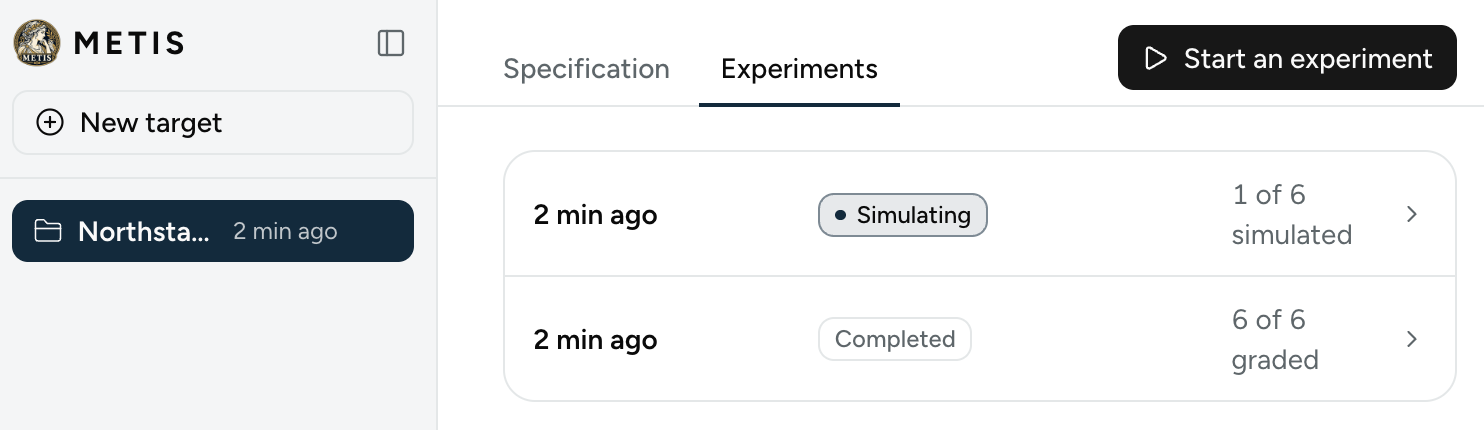
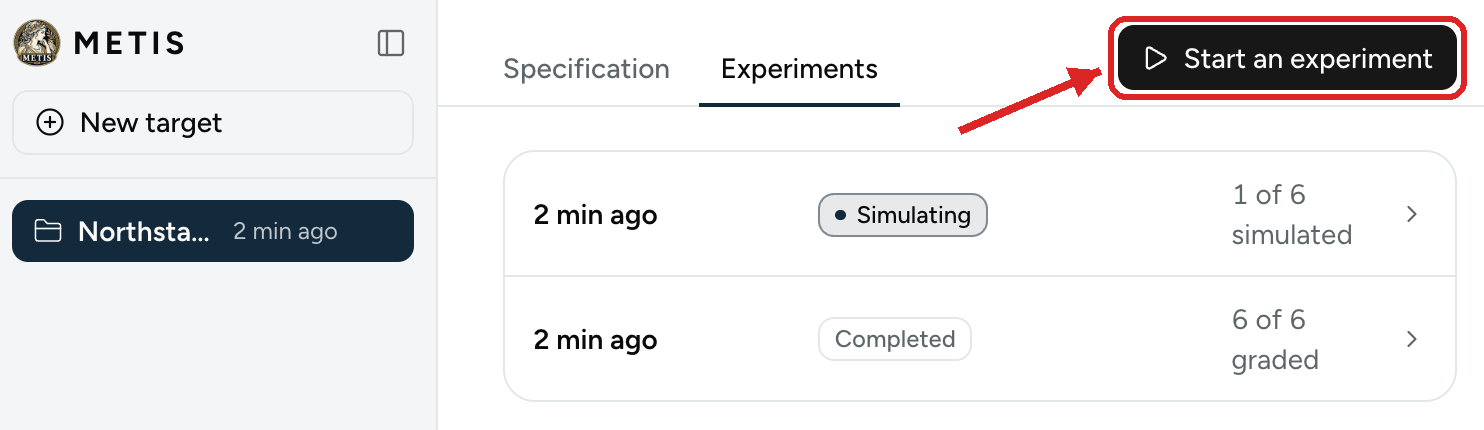
docs(website): show the Start an experiment dialog in the beginner walkthrough

Changed region(s): [[0.7129, 0.0302, 0.9919, 0.2419], [0.6509, 0.2116, 0.7129, 0.3023]]

diff --git a/website/docs-site/docs/beginner-walkthrough.md b/website/docs-site/docs/beginner-walkthrough.md
@@ -211,10 +211,12 @@ test cases.
 If you have not already started the experiment, select the **Experiments** tab and press
 **Start an experiment**.
 
-![The Experiments tab, with the Start an experiment button and a list of experiments](./assets/web-experiments-tab.png)
+![The Experiments tab, with the Start an experiment button highlighted](./assets/web-experiments-tab.png)
 
-All checks should show a green **pass**. If any check fails, ask the facilitator.
-Select **Run experiment**.
+In the dialog, check that your specification is chosen and that it says **Server ready**. If it
+lists a failed check instead, ask the facilitator. Select **Start**.
+
+![The Start an experiment dialog, with the specification chosen and Server ready](./assets/web-experiment-dialog.png)
 
 ### 5b. Watch the progress
 
